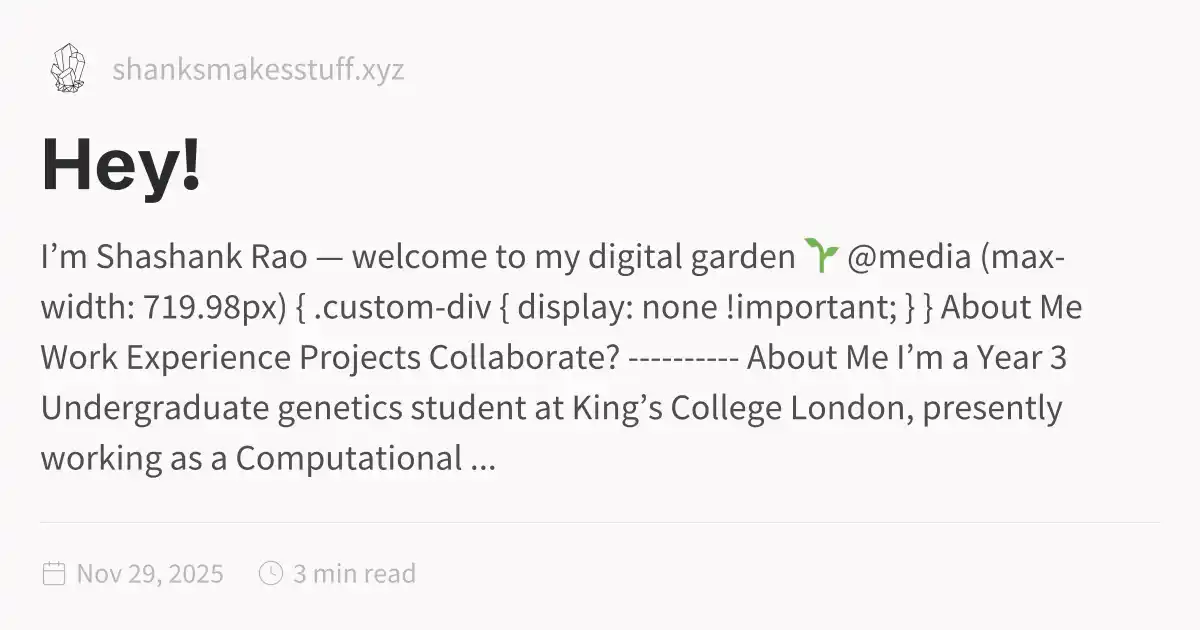
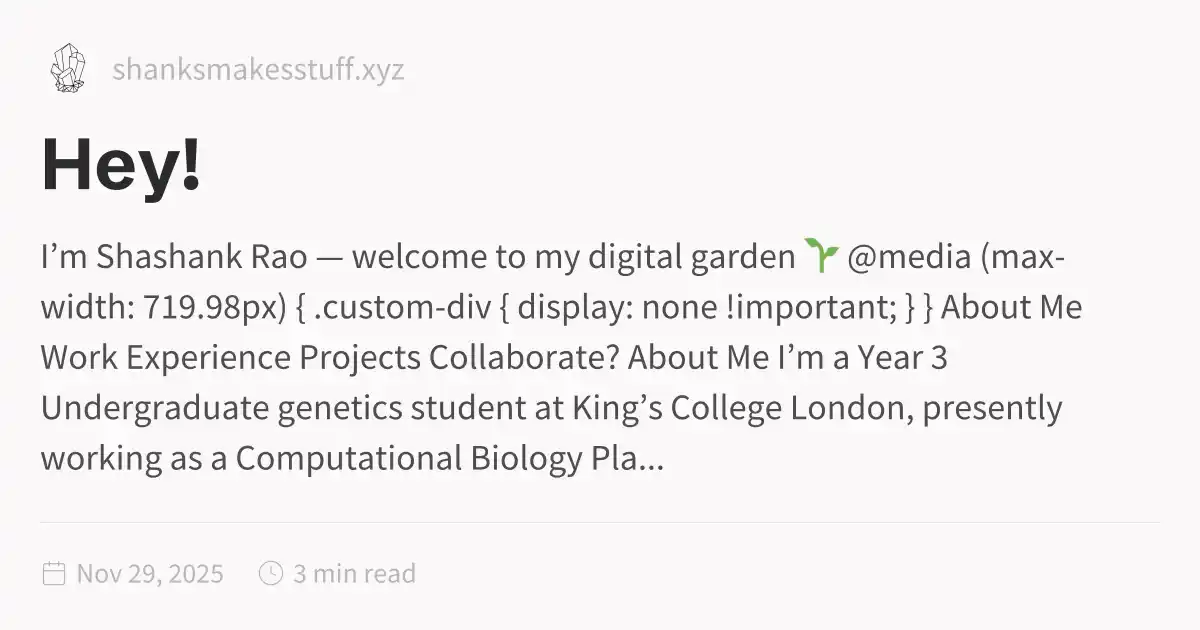
2025-11-29_1536

Changed region(s): [[0.5242, 0.5429, 0.8942, 0.6032], [0.4008, 0.6937, 0.555, 0.754]]

diff --git a/Hey!.html b/Hey!.html
@@ -1,5 +1,5 @@
 <!DOCTYPE html>
-<html lang="en"><head><title>Hey!</title><meta charset="utf-8"/><link rel="preconnect" href="https://fonts.googleapis.com"/><link rel="preconnect" href="https://fonts.gstatic.com"/><link rel="stylesheet" href="https://fonts.googleapis.com/css2?family=Schibsted Grotesk:wght@400;700&amp;family=Source Sans Pro:ital,wght@0,400;0,600;1,400;1,600&amp;family=IBM Plex Mono:wght@400;600&amp;display=swap"/><link rel="preconnect" href="https://cdnjs.cloudflare.com" crossorigin="anonymous"/><meta name="viewport" content="width=device-width, initial-scale=1.0"/><meta name="og:site_name" content="ShanksMakesStuff"/><meta property="og:title" content="Hey!"/><meta property="og:type" content="website"/><meta name="twitter:card" content="summary_large_image"/><meta name="twitter:title" content="Hey!"/><meta name="twitter:description" content="I’m Shashank Rao — welcome to my digital garden 🌱 @media (max-width: 719.98px) { .custom-div { display: none !important; } } About Me Work Experience Projects Collaborate? ---------- About Me I’m a Year 3 Undergraduate genetics student at King’s College London, presently working as a Computational ..."/><meta property="og:description" content="I’m Shashank Rao — welcome to my digital garden 🌱 @media (max-width: 719.98px) { .custom-div { display: none !important; } } About Me Work Experience Projects Collaborate? ---------- About Me I’m a Year 3 Undergraduate genetics student at King’s College London, presently working as a Computational ..."/><meta property="og:image:alt" content="I’m Shashank Rao — welcome to my digital garden 🌱 @media (max-width: 719.98px) { .custom-div { display: none !important; } } About Me Work Experience Projects Collaborate? ---------- About Me I’m a Year 3 Undergraduate genetics student at King’s College London, presently working as a Computational ..."/><meta property="twitter:domain" content="shanksmakesstuff.xyz"/><meta property="og:url" content="https://shanksmakesstuff.xyz/Hey!"/><meta property="twitter:url" content="https://shanksmakesstuff.xyz/Hey!"/><link rel="icon" href="./static/icon.png"/><meta name="description" content="I’m Shashank Rao — welcome to my digital garden 🌱 @media (max-width: 719.98px) { .custom-div { display: none !important; } } About Me Work Experience Projects Collaborate? ---------- About Me I’m a Year 3 Undergraduate genetics student at King’s College London, presently working as a Computational ..."/><meta name="generator" content="Quartz"/><link href="./index.css" rel="stylesheet" type="text/css" spa-preserve/><style>.expand-button {
+<html lang="en"><head><title>Hey!</title><meta charset="utf-8"/><link rel="preconnect" href="https://fonts.googleapis.com"/><link rel="preconnect" href="https://fonts.gstatic.com"/><link rel="stylesheet" href="https://fonts.googleapis.com/css2?family=Schibsted Grotesk:wght@400;700&amp;family=Source Sans Pro:ital,wght@0,400;0,600;1,400;1,600&amp;family=IBM Plex Mono:wght@400;600&amp;display=swap"/><link rel="preconnect" href="https://cdnjs.cloudflare.com" crossorigin="anonymous"/><meta name="viewport" content="width=device-width, initial-scale=1.0"/><meta name="og:site_name" content="ShanksMakesStuff"/><meta property="og:title" content="Hey!"/><meta property="og:type" content="website"/><meta name="twitter:card" content="summary_large_image"/><meta name="twitter:title" content="Hey!"/><meta name="twitter:description" content="I’m Shashank Rao — welcome to my digital garden 🌱 @media (max-width: 719.98px) { .custom-div { display: none !important; } } About Me Work Experience Projects Collaborate? About Me I’m a Year 3 Undergraduate genetics student at King’s College London, presently working as a Computational Biology Pla..."/><meta property="og:description" content="I’m Shashank Rao — welcome to my digital garden 🌱 @media (max-width: 719.98px) { .custom-div { display: none !important; } } About Me Work Experience Projects Collaborate? About Me I’m a Year 3 Undergraduate genetics student at King’s College London, presently working as a Computational Biology Pla..."/><meta property="og:image:alt" content="I’m Shashank Rao — welcome to my digital garden 🌱 @media (max-width: 719.98px) { .custom-div { display: none !important; } } About Me Work Experience Projects Collaborate? About Me I’m a Year 3 Undergraduate genetics student at King’s College London, presently working as a Computational Biology Pla..."/><meta property="twitter:domain" content="shanksmakesstuff.xyz"/><meta property="og:url" content="https://shanksmakesstuff.xyz/Hey!"/><meta property="twitter:url" content="https://shanksmakesstuff.xyz/Hey!"/><link rel="icon" href="./static/icon.png"/><meta name="description" content="I’m Shashank Rao — welcome to my digital garden 🌱 @media (max-width: 719.98px) { .custom-div { display: none !important; } } About Me Work Experience Projects Collaborate? About Me I’m a Year 3 Undergraduate genetics student at King’s College London, presently working as a Computational Biology Pla..."/><meta name="generator" content="Quartz"/><link href="./index.css" rel="stylesheet" type="text/css" spa-preserve/><style>.expand-button {
   position: absolute;
   display: flex;
   float: right;
@@ -116,7 +116,7 @@ pre:hover > .expand-button {
   padding: 0 12px;
   font-size: 14px;
 }
[2 lines of base64/hex data omitted]
 <hr/>
 
 <style>
@@ -131,7 +131,7 @@ pre:hover > .expand-button {
 	<a href="https://www.shanksmakesstuff.xyz/Hey!#want-to-collaborate" class="external">Collaborate?<svg aria-hidden="true" class="external-icon" style="max-width:0.8em;max-height:0.8em;" viewBox="0 0 512 512"><path d="M320 0H288V64h32 82.7L201.4 265.4 178.7 288 224 333.3l22.6-22.6L448 109.3V192v32h64V192 32 0H480 320zM32 32H0V64 480v32H32 456h32V480 352 320H424v32 96H64V96h96 32V32H160 32z"></path></svg></a>
 </div> 
 
-----------
+<hr/>
 <h2 id="about-me">About Me<a role="anchor" aria-hidden="true" tabindex="-1" data-no-popover="true" href="#about-me" class="internal"><svg width="18" height="18" viewBox="0 0 24 24" fill="none" stroke="currentColor" stroke-width="2" stroke-linecap="round" stroke-linejoin="round"><path d="M10 13a5 5 0 0 0 7.54.54l3-3a5 5 0 0 0-7.07-7.07l-1.72 1.71"></path><path d="M14 11a5 5 0 0 0-7.54-.54l-3 3a5 5 0 0 0 7.07 7.07l1.71-1.71"></path></svg></a></h2>
 <p>I’m a Year 3 Undergraduate genetics student at <a href="https://www.kcl.ac.uk/" class="external">King’s College London<svg aria-hidden="true" class="external-icon" style="max-width:0.8em;max-height:0.8em;" viewBox="0 0 512 512"><path d="M320 0H288V64h32 82.7L201.4 265.4 178.7 288 224 333.3l22.6-22.6L448 109.3V192v32h64V192 32 0H480 320zM32 32H0V64 480v32H32 456h32V480 352 320H424v32 96H64V96h96 32V32H160 32z"></path></svg></a>, presently working as a Computational Biology Placement Student at GSK. I’m passionate about biology, programming, and bits of social contract theory.</p>
 <p>I love combining disciplines, whether it’s using code to explore genetics or using philosophy to understand emergence.</p>
